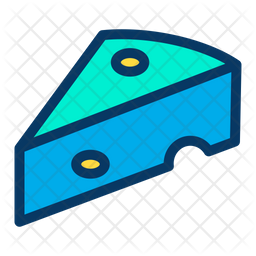
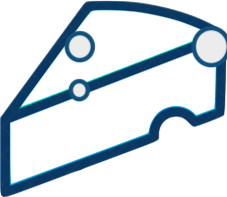
update code

diff --git a/index.js b/index.js
@@ -8,22 +8,12 @@ const blueCheeseTimerContainer = document.querySelector('.blue-cheese-timer');
 const buttons = document.querySelectorAll('.reset');
 const startTimer = document.querySelector('.start-timer');
 const controlContainer = document.querySelector('.control-container');
+const points = document.querySelector('.points');
 
-if (playground.clientWidth <= 800) {
-    controlContainer.addEventListener('click', moveMouseByControl, true);
-}
+points.innerHTML = 0;
 
-let possiblePositionVertical = [];
-let possiblePositionHorizontal = [];
 let blueCheese = false;
 let blueCheeseArr = [];
-
-for (let i = 0; i < buttons.length; i++) {
-    buttons[i].addEventListener("click", startNewGame, false);
-}
-
-document.addEventListener("keydown", moveMouseByKeys, true);
-
 let playerSize = player.offsetWidth;
 let movedHorizontal = 0;
 let movedVertical = 0;
@@ -41,8 +31,23 @@ let sec = 3
 let blueCheeseTimer = sec * blueCheeseAmount;
 let blueTimerInterval;
 let combo = [];
+let possiblePositionVertical = randomPosition(Math.floor((playground.clientHeight - playerSize) / playerSize));
+let possiblePositionHorizontal = randomPosition(Math.floor((playground.clientWidth - playerSize) / playerSize));
 
 startTimer.innerHTML = timer;
+
+
+if (playground.clientWidth <= 800) {
+    controlContainer.addEventListener('click', moveMouseByControl, true);
+} // check is the screen is smaller then 800 so to add control buttons for small screens
+// to be updated
+
+
+for (let i = 0; i < buttons.length; i++) {
+    buttons[i].addEventListener("click", startNewGame, false);
+}
+
+document.addEventListener("keydown", moveMouseByKeys, true);
 
 
 // functionality
@@ -58,8 +63,7 @@ function randomPosition(num) {
     return randomePositionArr;
 }
 
-possiblePositionVertical = randomPosition(Math.floor(playground.clientHeight / playerSize));
-possiblePositionHorizontal = randomPosition(Math.floor((playground.clientWidth - playerSize) / playerSize));
+
 
 for (let y = 0; y < possiblePositionVertical.length; y++) {
     for (let x = 0; x < possiblePositionHorizontal.length; x++) {
@@ -141,8 +145,8 @@ function moveTop() {
 
 function moveRight() {
     if (movedHorizontal < Math.floor(playground.clientWidth - (playerSize * 2))) {
-        console.log( Math.floor(playground.clientWidth - (playerSize * 2)));
-        
+        console.log(Math.floor(playground.clientWidth - (playerSize * 2)));
+
         movedHorizontal += playerSize;
         player.classList.add("right");
         player.style.left = `${movedHorizontal}px`;
@@ -222,7 +226,8 @@ function setTrap(i, position, sort) {
 }
 
 function addBlueCheese() {
-    setFood('./images/blue-cheese.png', blueCheeseAmount, "blue", count + 1, 0);
+    // setFood('./images/bad-cheese.png', blueCheeseAmount, "blue", count + 1, 0);
+    setFood('./images/blue-cheese2.png', blueCheeseAmount, "blue", count + 1, 0);
     blueCheese = true;
 }
 
@@ -270,7 +275,7 @@ function eatFood(foodId, foodScore) {
     let clearFood = document.querySelector(`#${foodId}`);
     playground.removeChild(clearFood);
     foodCount = document.querySelectorAll('.food').length;
-
+    points.innerHTML = score;
     if (foodCount === 0) {
         congratulationsYouWon();
         return;

diff --git a/index.css b/index.css
@@ -5,20 +5,27 @@
 }
 
 body {
+  font-family: Haettenschweiler, 'Arial Narrow Bold', sans-serif;
   display: flex;
   flex-direction: column;
   height: 100vh;
-  overflow: hidden;
+  overflow: hidden; 
+}
+
+:root {
+--gameOverBgColor: rgba(207, 87, 87, 0.502);
+--CongratsBColor:  rgba(188, 212, 188, 0.404);
 }
 
 .window button {
   display: block;
-  border: 1px solid rgba(0, 0, 0, 0.42);
+  border: 1px solid rgba(116, 116, 116, 0.42);
   color: rgba(0, 0, 0, 0.598);
   box-shadow: 0px 3px 5px 0px;
-  background: transparent;
   cursor: pointer;
   padding: 8px 16px;
+  margin-top: 40px;
+  text-transform: uppercase;
   transition: all .4s;
 }
 
@@ -26,24 +33,71 @@ body {
   box-shadow: 0 0 0 0;
 }
 
-
 header {
   display: flex;
-  padding: 40px 20px;
+  padding: 10px 20px;
   justify-content: flex-end;
   align-items: center;
-  border-bottom:1px dotted rgb(179, 178, 178);
+  border-bottom: 1px dotted rgb(179, 178, 178);
 }
 
-header span {
-  padding: 0 30px 0 10px;
-  font-size: 3rem;
-  font-weight: bold;
+.info-container {
+  display: flex;
+  width: 100%;
+  max-width: 60%;
+  justify-content: space-between;
+}
+
+.info-container div {
+  display: flex;
+  flex-direction: column;
+  justify-content: center;
+  align-items: center;
+}
+
+.img-container img {
+  width: 30px;
+  height: 30px;
+  object-fit: contain;
+}
+
+.img-container ul {
+  display: flex;
+  justify-content: space-around;
+  align-items: center;
+  padding: 0px;
+}
+
+.img-container ul li {
+  display: flex;
+  justify-content: space-around;
+  align-items: center;
+  margin-right: 10px;
+  width: 80px;
+}
+
+.img-container ul li:first-child {
+  margin-left: 10px;
+}
+
+.img-container ul li::after {
+  content: ",";
+}
+
+.img-container ul li:last-of-type::after {
+  content: "";
+}
+
+
+.blue-cheese-timer, .start-timer, .points {
+  padding: 0 0px 0 0px;
+  font-size: 2rem;
+  font-weight: bolder;
+  flex: 1;
 }
 
 .blue-cheese-timer {
-  width: 80%;
-  color: rgba(0, 124, 234, 0.78);
+  color: rgba(0, 125, 234, 0.404);
 }
 
 .playground {
@@ -80,8 +134,10 @@ header span {
 .food,
 .trap, .blue-food {
   position: absolute;
+  background-color: transparent;
   width: 40px;
   height: 40px;
+  object-fit: contain;
 }
 
 @keyframes gameOver {
@@ -115,7 +171,7 @@ header span {
   justify-content: center;
   align-items: center;
   padding: 40px;
-  height: 300px;
+  height: 100vh;
   color: rgba(0, 0, 0, 0.598);
   z-index: 1;
 }
@@ -143,6 +199,10 @@ header span {
 
 .game-over {
   background: rgba(174, 73, 73, 0.502);
+}
+
+.game-over button {
+  background: var(--gameOverBgColor);
 }
 
 @keyframes gameOverH1 {
@@ -200,6 +260,9 @@ header span {
 
 .congratulations h1 {
   animation: congratulationsH1 4s alternate infinite;
+}
+.congratulations button {
+  background: var(--CongratsBColor);
 }
 
 .display {

diff --git a/index.html b/index.html
@@ -12,8 +12,32 @@
 <body>
     <header>
         <span class="blue-cheese-timer"></span>
-        <p>Game ends in:</p>
-        <span class="start-timer"></span>
+        <div class="info-container">
+            <div class="img-container">
+                <ul> points:
+                    <li>
+                        <img src="./images/cheese.jpg" alt="cheese">
+                        <span>+ 2</span>
+                    </li>
+                    <li>
+                        <img src="./images/blue-cheese2.png" alt="cheese">
+                        <span>+ 5</span>
+                    </li>
+                    <li>
+                        <img src="./images/bad-cheese.png" alt="bad-cheese">
+                        <span>- 3</span>
+                    </li>
+                </ul>
+            </div>
+            <div>
+                <p>Points</p>
+                <span class="points"></span>
+            </div>
+            <div>
+                <p>Sec left</p>
+                <span class="start-timer"></span>
+            </div>
+        </div>
     </header>
     <main class="playground">
         <img class="player" src="./images/mouse.png" alt="mouse img">
@@ -36,10 +60,14 @@
     </main>
     <footer>
         <div class="control-container">
-            <button type="button" class="control-item control-top" data-move="top"><img src="./images/arrow.svg" alt=""></button type="button">
-            <button type="button" class="control-item control-right" data-move="right"><img src="./images/arrow.svg" alt=""></button>
-            <button type="button" class="control-item control-button" data-move="button"><img src="./images/arrow.svg" alt=""></button>
-            <button type="button" class="control-item control-left" data-move="left"><img src="./images/arrow.svg" alt=""></button>
+            <button type="button" class="control-item control-top" data-move="top"><img src="./images/arrow.svg"
+                    alt=""></button type="button">
+            <button type="button" class="control-item control-right" data-move="right"><img src="./images/arrow.svg"
+                    alt=""></button>
+            <button type="button" class="control-item control-button" data-move="button"><img src="./images/arrow.svg"
+                    alt=""></button>
+            <button type="button" class="control-item control-left" data-move="left"><img src="./images/arrow.svg"
+                    alt=""></button>
         </div>
     </footer>
     <script src="./index.js"></script>
